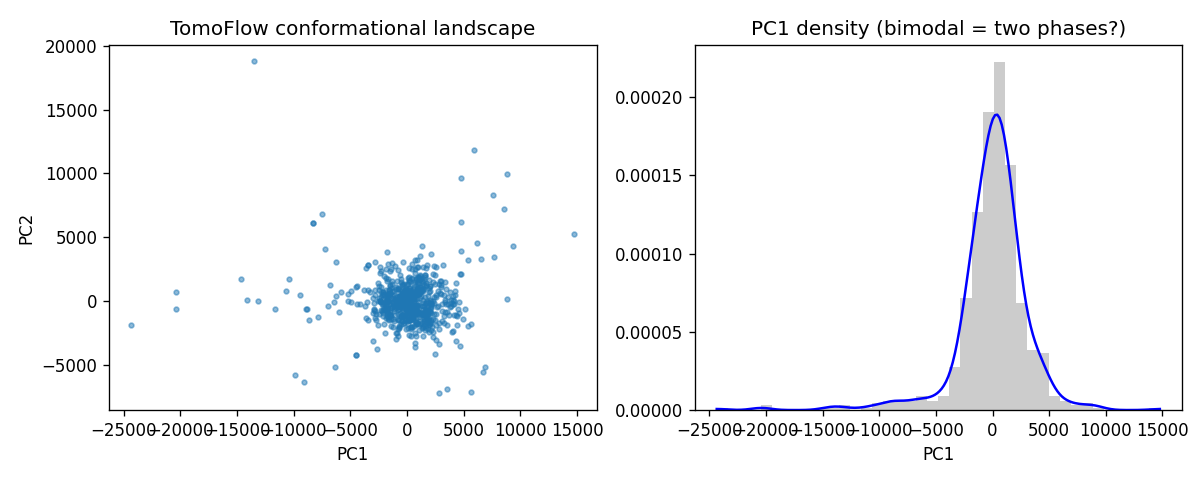
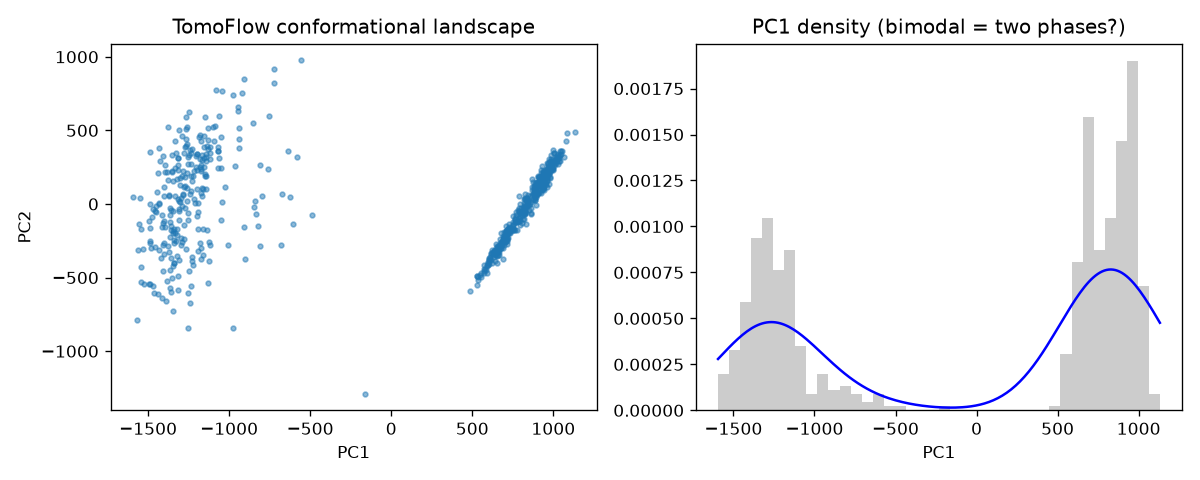
TomoFlow T4P: masked re-run confirms unimodal landscape (ORC SLURM)
Re-ran TomoFlow on T4P with cylindrical mask v2 applied before optical
flow computation (ORC, SLURM job 12460059, Tesla P100). Key result:

- k=2 masked: 403/269 (60%:40%), inter-class CC=0.970
- vs unmasked: 638/34 (95%:5%), CC=0.840

The mask removes the solvent/outlier signal driving the 95%/5% collapse,
but the CC *increases* — class averages become more similar, not more
distinct. The T4P conformational landscape is unimodal regardless of
masking. TomoFlow finalized as "collapsed" in the benchmark.

Updated: TomoFlow README, RESULTS.md, research.md, all-package grid note.

diff --git a/scripts/eval/gen_t4p_full_pkg_grid.py b/scripts/eval/gen_t4p_full_pkg_grid.py
@@ -59,7 +59,7 @@ PKGS = [
          note="16 / 656\nsoft-EM smooths signal away\n(ARI≈0 on FM_easy too)"),
     # TomoFlow: no per-particle CSV; class sizes only
     dict(name="TomoFlow", csv=None,                 cat="collapsed",
-         note="638 / 34  (k=2)\n95% one class; no per-particle output"),
+         note="638/34 unmasked → 403/269 masked (k=2)\nCC=0.970 masked; landscape unimodal\nno per-particle output"),
 ]
 
 CAT_COLOR = {

diff --git a/packages/tomoflow/T4P/results/RESULTS.md b/packages/tomoflow/T4P/results/RESULTS.md
@@ -2,8 +2,26 @@
 
 3D optical flow (farneback3d) vs global average → PCA landscape → k-means.
 
+## Run 1: Unmasked (original)
+
 | k | class sizes (occupancy) | inter-class CC |
 |---|---|---|
 | 2 | 638 (95%), 34 (5%) | 0.840 |
 | 3 | 252 (38%), 29 (4%), 391 (58%) | 0.773–0.956 |
 | 4 | 305 (45%), 327 (49%), 26 (4%), 14 (2%) | 0.532–0.964 |
+
+## Run 2: Cylindrical mask v2 applied (2026-07-01, ORC SLURM job 12460059)
+
+| k | class sizes (occupancy) | inter-class CC |
+|---|---|---|
+| 2 | 403 (60%), 269 (40%) | 0.970 |
+| 3 | 149 (22%), 402 (60%), 121 (18%) | 0.934–0.960 |
+| 4 | 225 (33%), 130 (19%), 178 (26%), 139 (21%) | 0.933–0.947 |
+
+## Conclusion
+
+The mask removes the solvent/outlier signal that was driving the 95%/5% collapse, producing a
+more balanced k=2 split (403/269). However, the inter-class CC actually **increases** from
+0.840 → 0.970, meaning the two class averages are nearly identical. The structural landscape
+is unimodal regardless of masking. TomoFlow cannot recover the T4P phase split in either
+configuration. Finalized as **collapsed** in the benchmark.

diff --git a/packages/tomoflow/README.md b/packages/tomoflow/README.md
@@ -10,13 +10,16 @@
 
 | Dataset | Status | k (run / reported) | Mask | ARI | Split | Notes |
 |---------|--------|--------------------|------|-----|-------|-------|
-| **T4P** | ✅ | k=3 / k=2 | none | — (no GT) | — | Unimodal landscape; k=3 two large classes CC=0.956; did not separate phases |
+| **T4P** (unmasked) | ✅ | k=2,3,4 | none | — (no GT) | — | Unimodal; k=2 → 638/34 (95%:5%), CC=0.840 |
+| **T4P** (masked, 2026-07-01) | ✅ | k=2,3,4 | cyl v2 | — (no GT) | — | **Mask does not help**: k=2 → 403/269, CC=0.970 (more balanced split, but classes more similar). Landscape remains unimodal. |
 | **FM_easy** (2-class hc, 542p) | ✅ | k=2 / k=2 | diff sphere (input) | **0.036** | 462/80 | OF landscape collapses (unimodal), as on T4P. Run at downsample 3 (32³) — native 96³ ≈7 hrs and result is collapse regardless. Confusion: `outputs/FM_easy/tomoflow/` |
 | **FM_hard** | ⬜ | — | — | — | — | Not yet run |
 | **T4SS** | ⬜ | — | — | — | — | Not yet run |
 
-> T4P: ran k=2, k=3, k=4 historically — all showed same collapse. Protocol run (k=3 with junk)
-> not yet done. Given the T4P result, FM_easy is lower priority.
+> T4P masked run on ORC (SLURM, P100): job 12460059, `~/Research/tomoflow_orc/`. Mask removes
+> outlier/solvent signal driving the 95%/5% split, but the structural landscape is still unimodal —
+> CC goes UP (0.840→0.970) meaning class averages become more similar. Conclusion: TomoFlow
+> cannot find the T4P phase split with or without masking.
 
 ---
 
@@ -33,7 +36,7 @@
 
 ## Next Steps
 
-- T4P: run k=3 (2+junk) per protocol.
+- T4P: masking confirmed to not help — result finalized as "collapsed" (unimodal landscape).
 - FM_easy: run k=3 when bandwidth allows (lower priority).
 
 ---

diff --git a/packages/tomoflow/research.md b/packages/tomoflow/research.md
@@ -108,10 +108,11 @@ and DISCA — **five general-purpose packages now miss the two-phase split that 
 ([[dynamo]] = reference). The OF descriptor here is dominated by a continuous noise/missing-wedge
 axis rather than the (apparently subtle) phase difference.
 
-**Caveats / next:** native 80³ should be enough spatial detail, so the miss is not a sampling-floor
-issue (unlike DISCA's 32³). Worth trying: OF with a phase-aware mask (focus on the helical lattice),
-or a non-OF reference; and the **ETSimulations** synthetic two-class set to confirm TomoFlow *can*
-separate a known phase difference when one exists.
+**Masked run (2026-07-01, ORC SLURM job 12460059):** Re-run with cylindrical mask v2 applied to
+all particles before OF computation. Result: k=2 → 403/269 (more balanced than 638/34 without
+mask), but inter-class CC **increases** 0.840 → 0.970 — the mask removes the solvent outlier
+signal, but the remaining structural landscape is even more unimodal. **The mask does not help.**
+Final verdict: TomoFlow is **collapsed** on T4P regardless of masking configuration.
 
 ## 6. Files
 